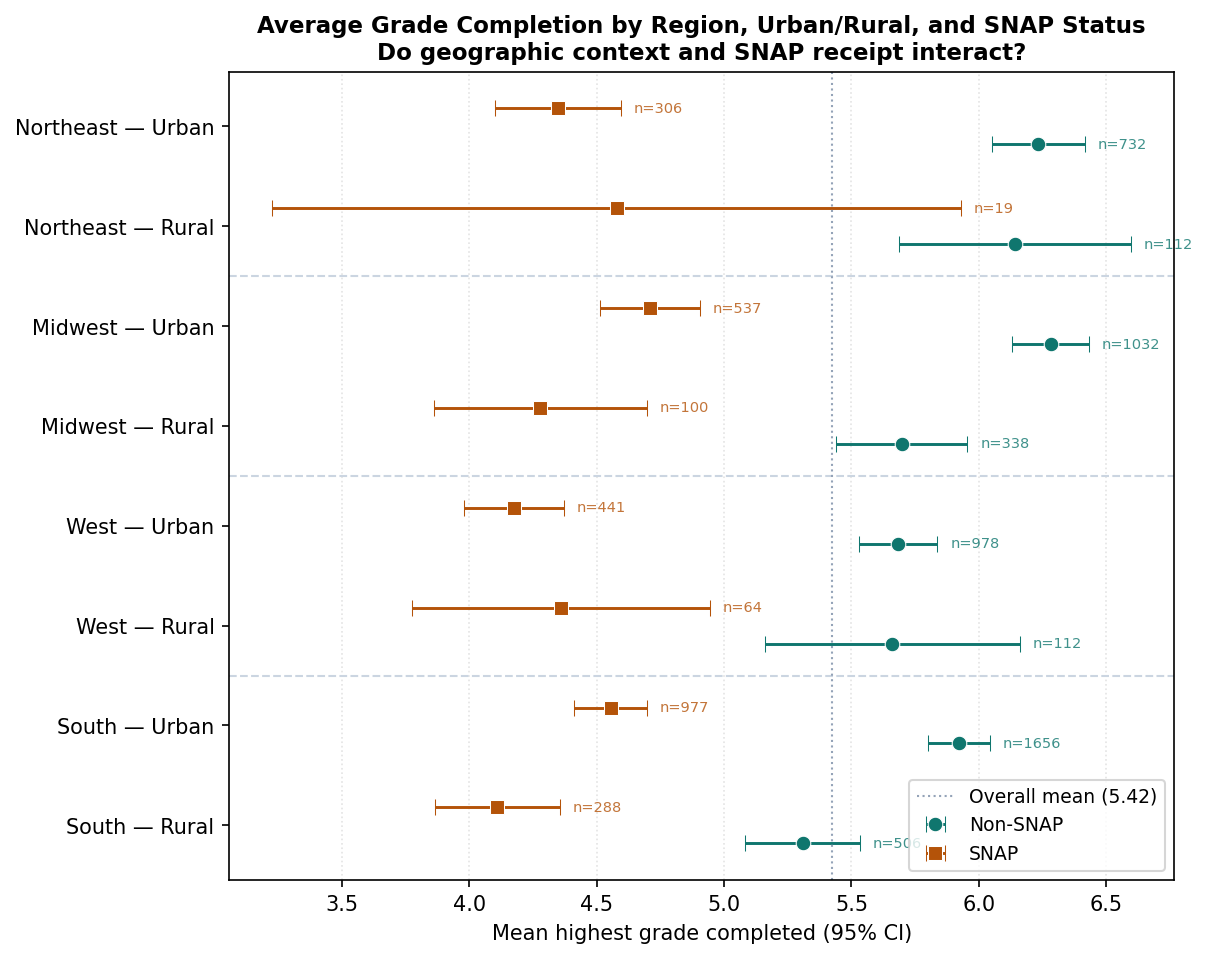
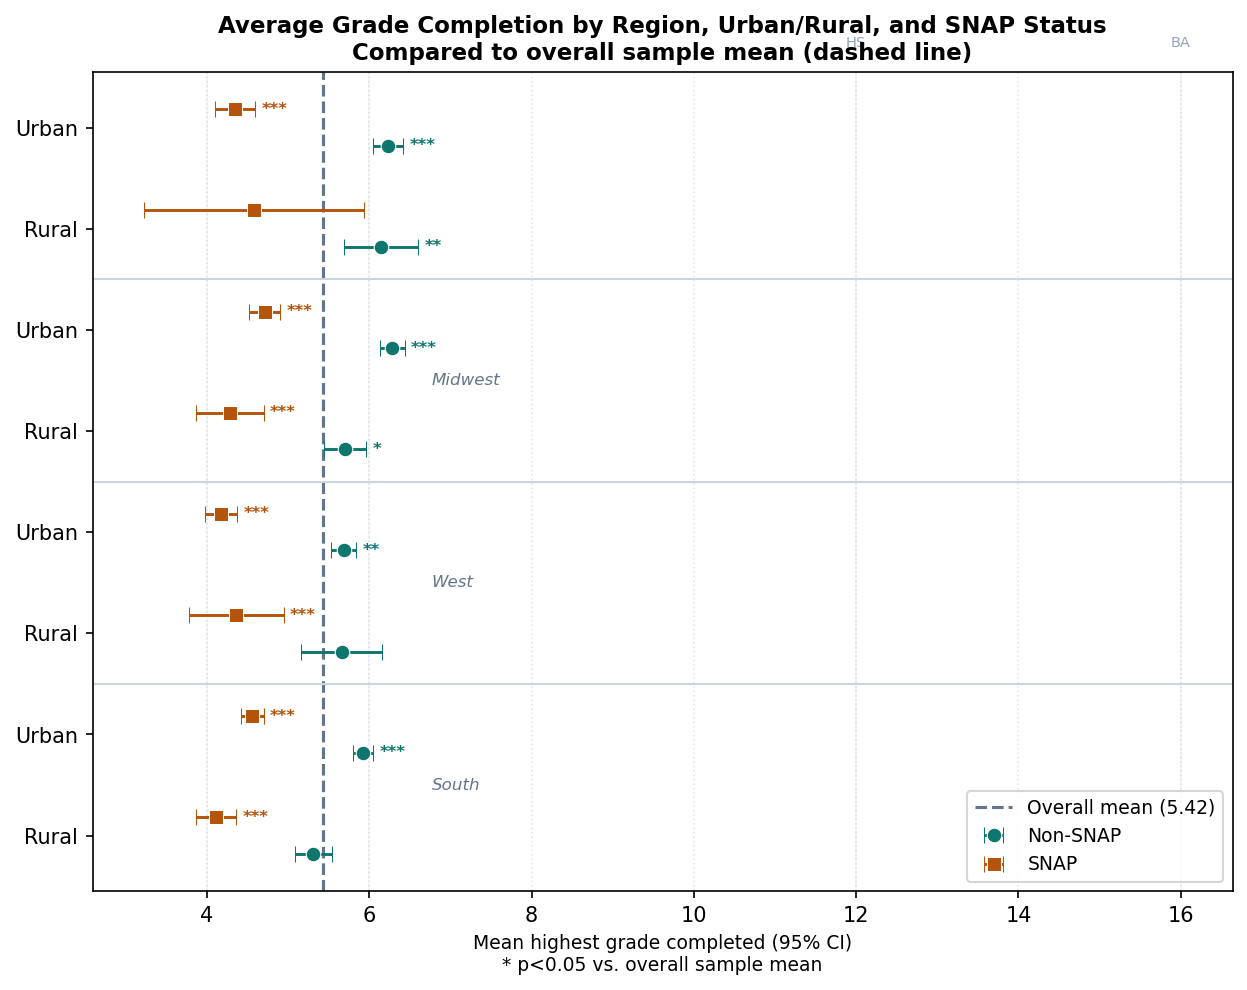
Update Figure 3 — compare each region/urban group to overall mean with significance stars

diff --git a/code/figure3_geography_dotplot.py b/code/figure3_geography_dotplot.py
@@ -4,12 +4,13 @@ QSS 20 Final Project — Molly Ryan
 
 PURPOSE:
     Produce a dot plot showing average highest grade completed by
-    Census region x urban/rural x SNAP status.
+    Census region x urban/rural x SNAP status, compared to the
+    overall sample mean.
 
     Each row = one region/urban-rural combination (8 groups)
     Two dots per row = SNAP (amber) vs non-SNAP (teal)
-    Shows whether the urban/rural divide matters differently
-    across regions for SNAP vs non-SNAP children.
+    Vertical reference line = overall sample mean
+    Shows how each group compares to the overall average
 
 INPUT:
     data/processed/nlscya_qss20_cleaned_subset_geo.csv
@@ -20,10 +21,10 @@ OUTPUT:
 
 import pandas as pd
 import numpy as np
+from scipy import stats
 import matplotlib
 matplotlib.use("Agg")
 import matplotlib.pyplot as plt
-import matplotlib.lines as mlines
 import sys
 from pathlib import Path
 
@@ -40,55 +41,52 @@ OUTPUT_DIR.mkdir(exist_ok=True)
 
 df  = load_clean(IN_PATH)
 reg = make_analysis_frame(df)
-
 reg[OUTCOME] = reg[OUTCOME].replace([-1,-2,-3,-4,-5,-7,-8,-9], np.nan)
-
-# Keep only Urban and Rural (drop Unknown)
 reg = reg[reg["urban_rural"].isin(["Urban", "Rural"])]
-
-# Drop missing
 reg = reg.dropna(subset=[OUTCOME, "snap_ever", "region", "urban_rural"])
 
+overall_mean = reg[OUTCOME].mean()
+print(f"Overall mean highest grade: {overall_mean:.3f}")
 print(f"Analysis sample: {len(reg):,} children")
-print("\nGroup sizes:")
-print(reg.groupby(["region", "urban_rural", "snap_ever"])[OUTCOME].count().to_string())
 
 # ── Compute group means and CIs ───────────────────────────────────────────────
 
 def mean_ci(series):
-    """Return mean and 95% CI half-width."""
     n    = len(series)
     mean = series.mean()
     se   = series.std() / np.sqrt(n)
-    return mean, 1.96 * se, n
+    ci   = 1.96 * se
+    t, p = stats.ttest_1samp(series, overall_mean)
+    return mean, ci, n, p
 
 rows = []
-for region in ["Northeast", "Midwest", "South", "West"]:
+for region in ["Northeast", "Midwest", "West", "South"]:
     for urban in ["Urban", "Rural"]:
         for snap_val, snap_label in [(0, "Non-SNAP"), (1, "SNAP")]:
             sub = reg[
                 (reg["region"] == region) &
                 (reg["urban_rural"] == urban) &
                 (reg["snap_ever"] == snap_val)
-            ][OUTCOME]
+            ][OUTCOME].dropna()
             if len(sub) < 10:
                 continue
-            mean, ci, n = mean_ci(sub)
+            mean, ci, n, p = mean_ci(sub)
             rows.append({
-                "region":     region,
-                "urban_rural":urban,
-                "group":      snap_label,
-                "label":      f"{region} — {urban}",
-                "mean":       mean,
-                "ci":         ci,
-                "n":          n,
+                "region":      region,
+                "urban_rural": urban,
+                "group":       snap_label,
+                "label":       f"{region} — {urban}",
+                "mean":        mean,
+                "ci":          ci,
+                "n":           n,
+                "p":           p,
+                "sig":         p < 0.05,
+                "diff":        mean - overall_mean,
             })
 
 plot_df = pd.DataFrame(rows)
-print("\nGroup means:")
-print(plot_df[["label","group","mean","ci","n"]].round(3).to_string(index=False))
 
-# ── Order rows: by region, then Urban before Rural ───────────────────────────
+# ── Build ordered label list ──────────────────────────────────────────────────
 
 region_order = ["Northeast", "Midwest", "West", "South"]
 urban_order  = ["Urban", "Rural"]
@@ -97,10 +95,7 @@ plot_df["region_rank"] = plot_df["region"].map({r: i for i, r in enumerate(regio
 plot_df["urban_rank"]  = plot_df["urban_rural"].map({u: i for i, u in enumerate(urban_order)})
 plot_df = plot_df.sort_values(["region_rank", "urban_rank"], ascending=[False, False])
 
-labels = plot_df["label"].unique()
-# Keep order from sorted df
-seen = set()
-ordered_labels = []
+seen, ordered_labels = set(), []
 for l in plot_df["label"]:
     if l not in seen:
         ordered_labels.append(l)
@@ -114,7 +109,7 @@ COLORS  = {"Non-SNAP": "#0f766e", "SNAP": "#b45309"}
 OFFSETS = {"Non-SNAP": -0.18,     "SNAP":  0.18}
 MARKERS = {"Non-SNAP": "o",       "SNAP":  "s"}
 
-fig, ax = plt.subplots(figsize=(9, 7))
+fig, ax = plt.subplots(figsize=(10, 7))
 
 for group in ["Non-SNAP", "SNAP"]:
     sub = plot_df[plot_df["group"] == group]
@@ -126,61 +121,67 @@ for group in ["Non-SNAP", "SNAP"]:
         fmt=MARKERS[group],
         color=COLORS[group],
         label=group,
-        capsize=4,
-        markersize=7,
-        linewidth=1.4,
-        markeredgecolor="white",
-        markeredgewidth=0.5,
+        capsize=4, markersize=7, linewidth=1.4,
+        markeredgecolor="white", markeredgewidth=0.5,
     )
 
-    # Annotate n
+    # Significance stars vs overall mean
     for _, row in sub.iterrows():
         y = y_map[row["label"]] + OFFSETS[group]
-        ax.text(
-            row["mean"] + row["ci"] + 0.05, y,
-            f'n={row["n"]}',
-            va="center", ha="left",
-            fontsize=7, color=COLORS[group], alpha=0.8
-        )
+        star = "***" if row["p"] < 0.001 else "**" if row["p"] < 0.01 else "*" if row["p"] < 0.05 else ""
+        if star:
+            ax.text(
+                row["mean"] + row["ci"] + 0.08, y,
+                star, va="center", ha="left",
+                fontsize=8, color=COLORS[group], fontweight="bold"
+            )
+
+# Overall mean reference line
+ax.axvline(overall_mean, color="#64748b", linewidth=1.5,
+           linestyle="--", label=f"Overall mean ({overall_mean:.2f})", zorder=1)
 
 # Region dividers
-region_boundaries = []
 prev_region = None
 for label in ordered_labels:
     region = label.split(" — ")[0]
     if prev_region and region != prev_region:
         idx = ordered_labels.index(label)
-        region_boundaries.append(idx - 0.5)
+        ax.axhline(idx - 0.5, color="#cbd5e1", linewidth=1, linestyle="-")
     prev_region = region
 
-for b in region_boundaries:
-    ax.axhline(b, color="#cbd5e1", linewidth=1, linestyle="--")
+# Region labels on right side
+prev_region = None
+region_start = 0
+for i, label in enumerate(ordered_labels):
+    region = label.split(" — ")[0]
+    if region != prev_region:
+        if prev_region:
+            mid = (region_start + i - 1) / 2
+            ax.text(ax.get_xlim()[1] if ax.get_xlim()[1] > 0 else 8.5,
+                   mid, prev_region,
+                   va="center", ha="left", fontsize=8,
+                   color="#64748b", style="italic")
+        region_start = i
+        prev_region = region
 
-# Reference line at overall mean
-overall_mean = reg[OUTCOME].mean()
-ax.axvline(overall_mean, color="#94a3b8", linewidth=1,
-           linestyle=":", label=f"Overall mean ({overall_mean:.2f})")
+# Grade reference lines
+for grade, grade_label in [(4, ""), (6, ""), (12, "HS"), (16, "BA")]:
+    ax.axvline(grade, color="#f1f5f9", linewidth=0.8, linestyle="-", zorder=0)
+    if grade_label:
+        ax.text(grade, len(ordered_labels) - 0.2, grade_label,
+                ha="center", fontsize=7, color="#94a3b8")
 
 ax.set_yticks(range(len(ordered_labels)))
-ax.set_yticklabels(ordered_labels, fontsize=10)
-ax.set_xlabel("Mean highest grade completed (95% CI)", fontsize=10)
+ax.set_yticklabels([l.split(" — ")[1] for l in ordered_labels], fontsize=10)
+ax.set_xlabel("Mean highest grade completed (95% CI)\n* p<0.05 vs. overall sample mean", fontsize=9)
 ax.set_title(
     "Average Grade Completion by Region, Urban/Rural, and SNAP Status\n"
-    "Do geographic context and SNAP receipt interact?",
+    "Compared to overall sample mean (dashed line)",
     fontsize=11, fontweight="bold"
 )
 ax.legend(fontsize=9, loc="lower right")
-ax.grid(axis="x", linestyle=":", alpha=0.35)
+ax.grid(axis="x", linestyle=":", alpha=0.3)
 
-# Add grade reference labels at top
-for grade, label in [(12, "HS"), (14, "AA"), (16, "BA")]:
-    if ax.get_xlim()[0] < grade < ax.get_xlim()[1]:
-        ax.axvline(grade, color="#e2e8f0", linewidth=0.8, linestyle="-", zorder=0)
-        ax.text(grade, len(ordered_labels) - 0.3, label,
-                ha="center", fontsize=7, color="#94a3b8")
-
-plt.subplots_adjust(left=0.22, right=0.92, top=0.88)
+plt.subplots_adjust(left=0.12, right=0.88, top=0.88, bottom=0.1)
 save_fig(fig, OUTPUT_DIR / "figure3_region_urban_dotplot.png", tight=False)
-
-print(f"\nSaved: {OUTPUT_DIR / 'figure3_region_urban_dotplot.png'}")
-print("\nfigure3_geography_dotplot.py complete.")
+print(f"Saved: {OUTPUT_DIR / 'figure3_region_urban_dotplot.png'}")